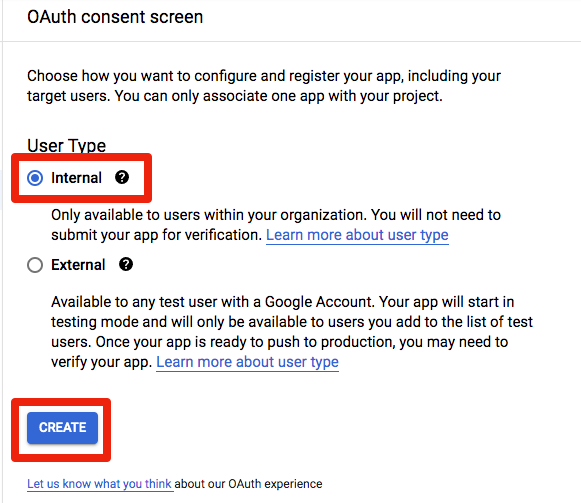
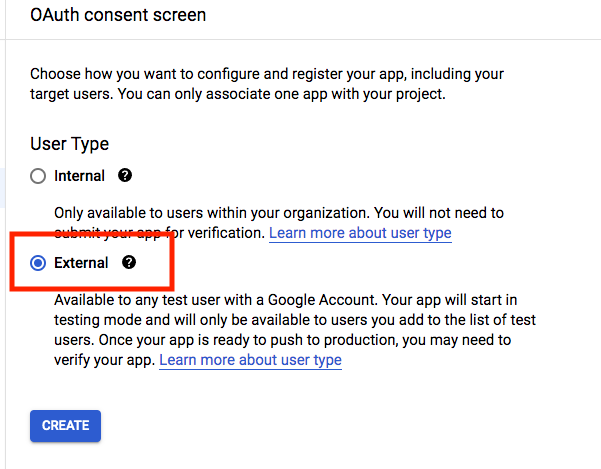
rclone updates, subdomain page

Changed region(s): [[0.0, 0.0, 0.9294, 1.0]]

diff --git a/docs/reference/rclone-manual.md b/docs/reference/rclone-manual.md
@@ -8,6 +8,8 @@ Rclone supports many cloud provider backends, but the only one routinely used by
 
 This process will use various scripts to do as much of this for you as possible, but there are some things that can't be scripted easily, like steps 1 and 2 below.
 
+It also assumes you are using a [Google Workspace](https://workspace.google.com/) account, since it assumes you can create shared drives.  You can do some of this without a Workspace account, but the differences are not documented here.  You won't be able to directly follow the steps below, and most of the scripts won't work for you.
+
 <details>
 <summary>What about `safire`? Can't it do all this automatically?</summary>
 <br />
@@ -26,21 +28,21 @@ Here's what you are going to do as you work through the instructions below:
 
 1. Create a Google project. [not scripted, you'll do this manually]
 
-1. Create a Google group. [not scripted, you'll do this manually]
+2. Create a Google group. [not scripted, you'll do this manually]
 
-1. Install the Google SDK tools. [not scripted, you'll do this manually]
+3. Install the Google SDK tools. [not scripted, you'll do this manually]
 
-1. Create a bunch of service accounts and put all the service accounts' JSON files into a subdirectory of `/opt`. [scripted with minor config edits]
+4. Create a bunch of service accounts and put all the service accounts' JSON files into a subdirectory of `/opt`. [scripted with minor config edits]
 
-1. Add all those service accounts to the Google group you just created. [Starting here scripted with minor config edits to a single script]
+5. Add all those service accounts to the Google group you just created. [Starting here scripted with minor config edits to a single script]
 
-1. Create three new shared drives in the Google Drive UI. [Movies, Music, TV]
+6. Create three new shared drives in the Google Drive UI. [Movies, Music, TV]
 
-1. Add your Google Group to each of those drives as a "Manager"
+7. Add your Google Group to each of those drives as a "Manager"
 
-1. Create rclone remotes pointing to each of those shared drives, authenticated using one of those service files.
+8. Create rclone remotes pointing to each of those shared drives, authenticated using one of those service files.
 
-1. Create a union rclone remote called "google", with the components set to the three td remotes you just created.
+9. Create a union rclone remote called "google", with the components set to the three td remotes you just created.
 
 
 If you already have Rclone configured, you can jump directly to the [relevant section](#existing-rclone-setup).
@@ -77,7 +79,7 @@ If you already have Rclone configured, you can jump directly to the [relevant se
 
       1. Project names need to be unique across all of Google; a random prefix helps ensure this [the error that results in this case is non-obvious].
 
-      1. It helps these scripts unambiguously identify things that they have created.
+      2. It helps these scripts unambiguously identify things that they have created.
 
 6. generate some service accounts
 
@@ -87,7 +89,7 @@ If you already have Rclone configured, you can jump directly to the [relevant se
 
     [Instructions here](google-shared-drives.md)
 
-7. Verify that the union remote shows you the expected contents:
+8. Verify that the union remote shows you the expected contents:
 
     ```
     rclone tree google:/
@@ -113,7 +115,7 @@ If you already have Rclone configured, you can jump directly to the [relevant se
 
 9. You now have three shared drives and union combining them; the saltbox install will merge this with your local drive and cloudplow will upload to the union mount, which will distribute media to the three shared drives by path.  You will still be limited to the 750GB/day Google upload limit until you configure cloudplow to upload directly to the individual shared drives.  Eventually this will be automated, but for now there is [this guide](cloudplow-config.md).
 
-9. If you want to use Plex Autoscan's Google Drive Monitoring, there are some changes that will be required in the configuration. See [this guide](plex-autoscan-config.md).
+10. If you want to use Plex Autoscan's Google Drive Monitoring, there are some changes that will be required in the configuration. See [this guide](plex-autoscan-config.md).
 
 ## Existing Rclone Setup
 

diff --git a/docs/reference/google-project-setup.md b/docs/reference/google-project-setup.md
@@ -71,7 +71,7 @@ This guide is assuming you are using a standard GSuite Business or GSuite Worksp
 
     ![](../images/gdrive-project/18-credentials-dash.png)
 
-9. Choose "Internal" user type and click "Create":
+9. Choose "External" user type and click "Create":
 
     ![](../images/gdrive-project/19-consent-user-type.png)
 
@@ -94,19 +94,35 @@ This guide is assuming you are using a standard GSuite Business or GSuite Worksp
 
     ![](../images/gdrive-project/23-consent-last.png)
 
-12. Click "Credentials" in the sidebar:
+12. Click  "SAVE AND CONTINUE" on the test users screen:
+
+    ![](../images/gdrive-project/225-test-users.png)
+
+    And "BACK TO DASHBOARD" on the final summary:
+
+    ![](../images/gdrive-project/23-consent-last.png)
+
+13. Click "PUBLISH APP" on the dashboard :
+
+    ![](../images/gdrive-project/235-publish-app.png)
+
+    Then "CONFIRM":
+
+    ![](../images/gdrive-project/237-confirm.png)
+
+14. Click "Credentials" in the sidebar:
 
     ![](../images/gdrive-project/24-consent-dash.png)
 
-13. Click "Create Credentials", then "OAuth client ID":
+15. Click "Create Credentials", then "OAuth client ID":
 
     ![](../images/gdrive-project/25-credentials-dropdown.png)
 
-14. Choose "Desktop App", give the app a name, and click "CREATE":
+16. Choose "Desktop App", give the app a name, and click "CREATE":
 
     ![](../images/gdrive-project/26-credentials-type-name.png)
 
-15. You'll be presented with the Client ID and Secret.  Copy and save them somewhere; you will need them to configure Plex Autoscan Google Drive Monitoring later.  Click on "DOWNLOAD JSON" to download the credential file:
+17. You'll be presented with the Client ID and Secret.  Copy and save them somewhere; you will need them to configure Plex Autoscan Google Drive Monitoring later.  Click on "DOWNLOAD JSON" to download the credential file:
 
     ![](../images/gdrive-project/27-credentials-done.png)
 

diff --git a/docs/reference/subdomain.md b/docs/reference/subdomain.md
@@ -1,27 +1,26 @@
-Setup instructions are separated based on the DNS Provider you use. 
-
+Setup instructions are separated based on the DNS Provider you use and the tpye of install.
 
 # Cloudflare
 
-Saltbox will automatically add subdomain on Cloudflare and point it to the correct IP address. 
+Saltbox will automatically add the subdomain on Cloudflare and point it to the correct IP address.
 
-_Note 1: Make sure the Cloudflare API Key is filled in [[settings.yml|Install: Settings]]) and the e-mail address matches the one you have in your account profile._ 
+_Note 1: Make sure the Cloudflare API Key is filled in [settings.yml](accounts.md) and the e-mail address matches the one you have in your Cloudflare account profile._
 
-_Note 2: There may be some subdomains that you have to add in yourself if Saltbox doesn’t so it for you, such as the Saltbox type ones (eg `saltbox`, `feederbox`, `mediabox`)._ 
+_Note 2: There may be some subdomains that you have to add in yourself if Saltbox doesn’t so it for you, such as the Saltbox type ones (eg `saltbox`, `feederbox`, `mediabox`)._
 
 # Other Domain Hosting Sites
 
-## Saltbox Install Type
+## For the Saltbox Install Type
 
-### Allows Wildcards
+### If your DNS provider allows wildcards
 
 You don't need to do anything.
 
-### Does Not Allow Wildcards
+### If your DNS provider DOES NOT allow wildcards
 
 You will need to add the subdomain via your domain's DNS provider's website.
 
-## Mediabox / Feederbox Install Type
+## For the Mediabox / Feederbox Install Type
 
 You will need to add the subdomain via your domain's DNS provider's website.
 
